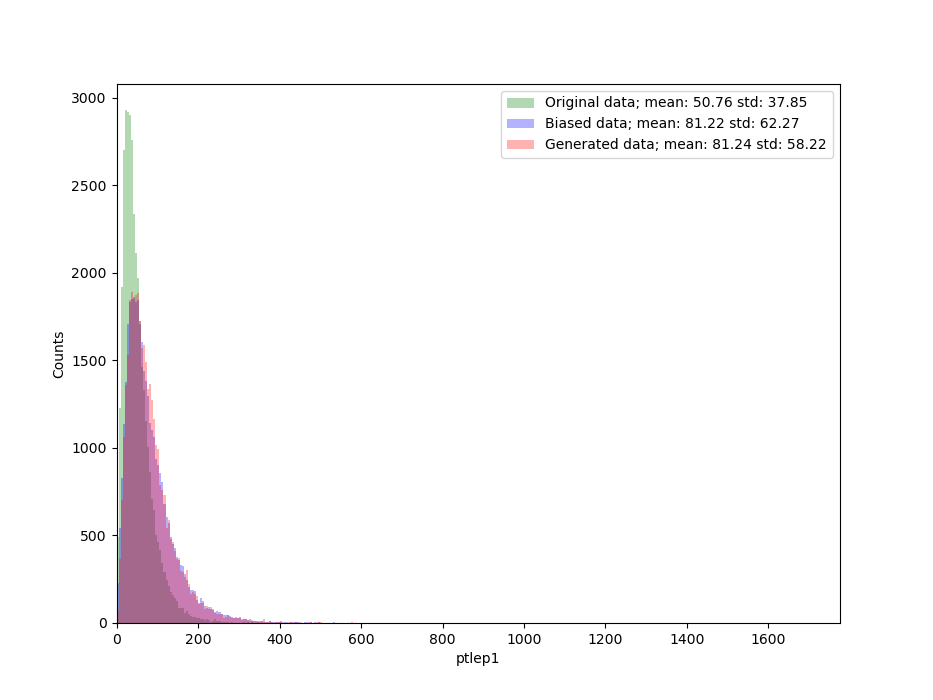
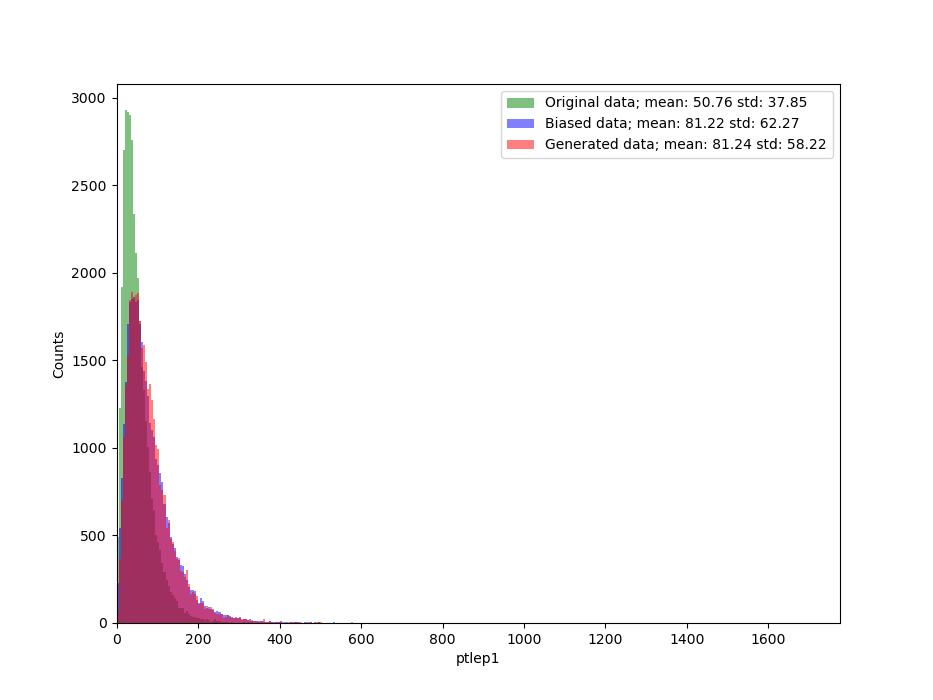
model 198 original vs biased vs generated samples

Changed region(s): [[0.1243, 0.15, 0.2797, 0.9], [0.5284, 0.12, 0.5906, 0.21]]

diff --git a/wgan.py b/wgan.py
@@ -518,9 +518,9 @@ class WGAN_trainer:
                         if binSeq is None:
                             raise RuntimeError('Histogram bins have been not assigned, check if there are more than {pt, phi, eta} variables ')
                         plt.figure(figsize=(9.33, 7));
-                        n_compare,_,_=plt.hist(compare_df[var] , bins=binSeq, density=(plot_t=="Density"), label=f'Original data; mean: {compare_mean[var]} std: {compare_std[var]}', color='green', alpha=0.3);
-                        n_sample,_,_=plt.hist(samples_df[var], bins=binSeq, density=(plot_t=="Density"), label=f'Biased data; mean: {samples_mean[var]} std: {samples_std[var]}', color='blue', alpha=0.3);
-                        n_generated,_,_=plt.hist(generated_df[var] , bins=binSeq, density=(plot_t=="Density"), label=f'Generated data; mean: {generated_mean[var]} std: {generated_std[var]}', color='red', alpha=0.3);
+                        n_compare,_,_=plt.hist(compare_df[var] , bins=binSeq, density=(plot_t=="Density"), label=f'Original data; mean: {compare_mean[var]} std: {compare_std[var]}', color='green', alpha=0.5);
+                        n_sample,_,_=plt.hist(samples_df[var], bins=binSeq, density=(plot_t=="Density"), label=f'Biased data; mean: {samples_mean[var]} std: {samples_std[var]}', color='blue', alpha=0.5);
+                        n_generated,_,_=plt.hist(generated_df[var] , bins=binSeq, density=(plot_t=="Density"), label=f'Generated data; mean: {generated_mean[var]} std: {generated_std[var]}', color='red', alpha=0.5);
 
                         if var.find('pt')!=-1 and samples_df.min()[var] < 0:
                             font = {'family': 'serif',
